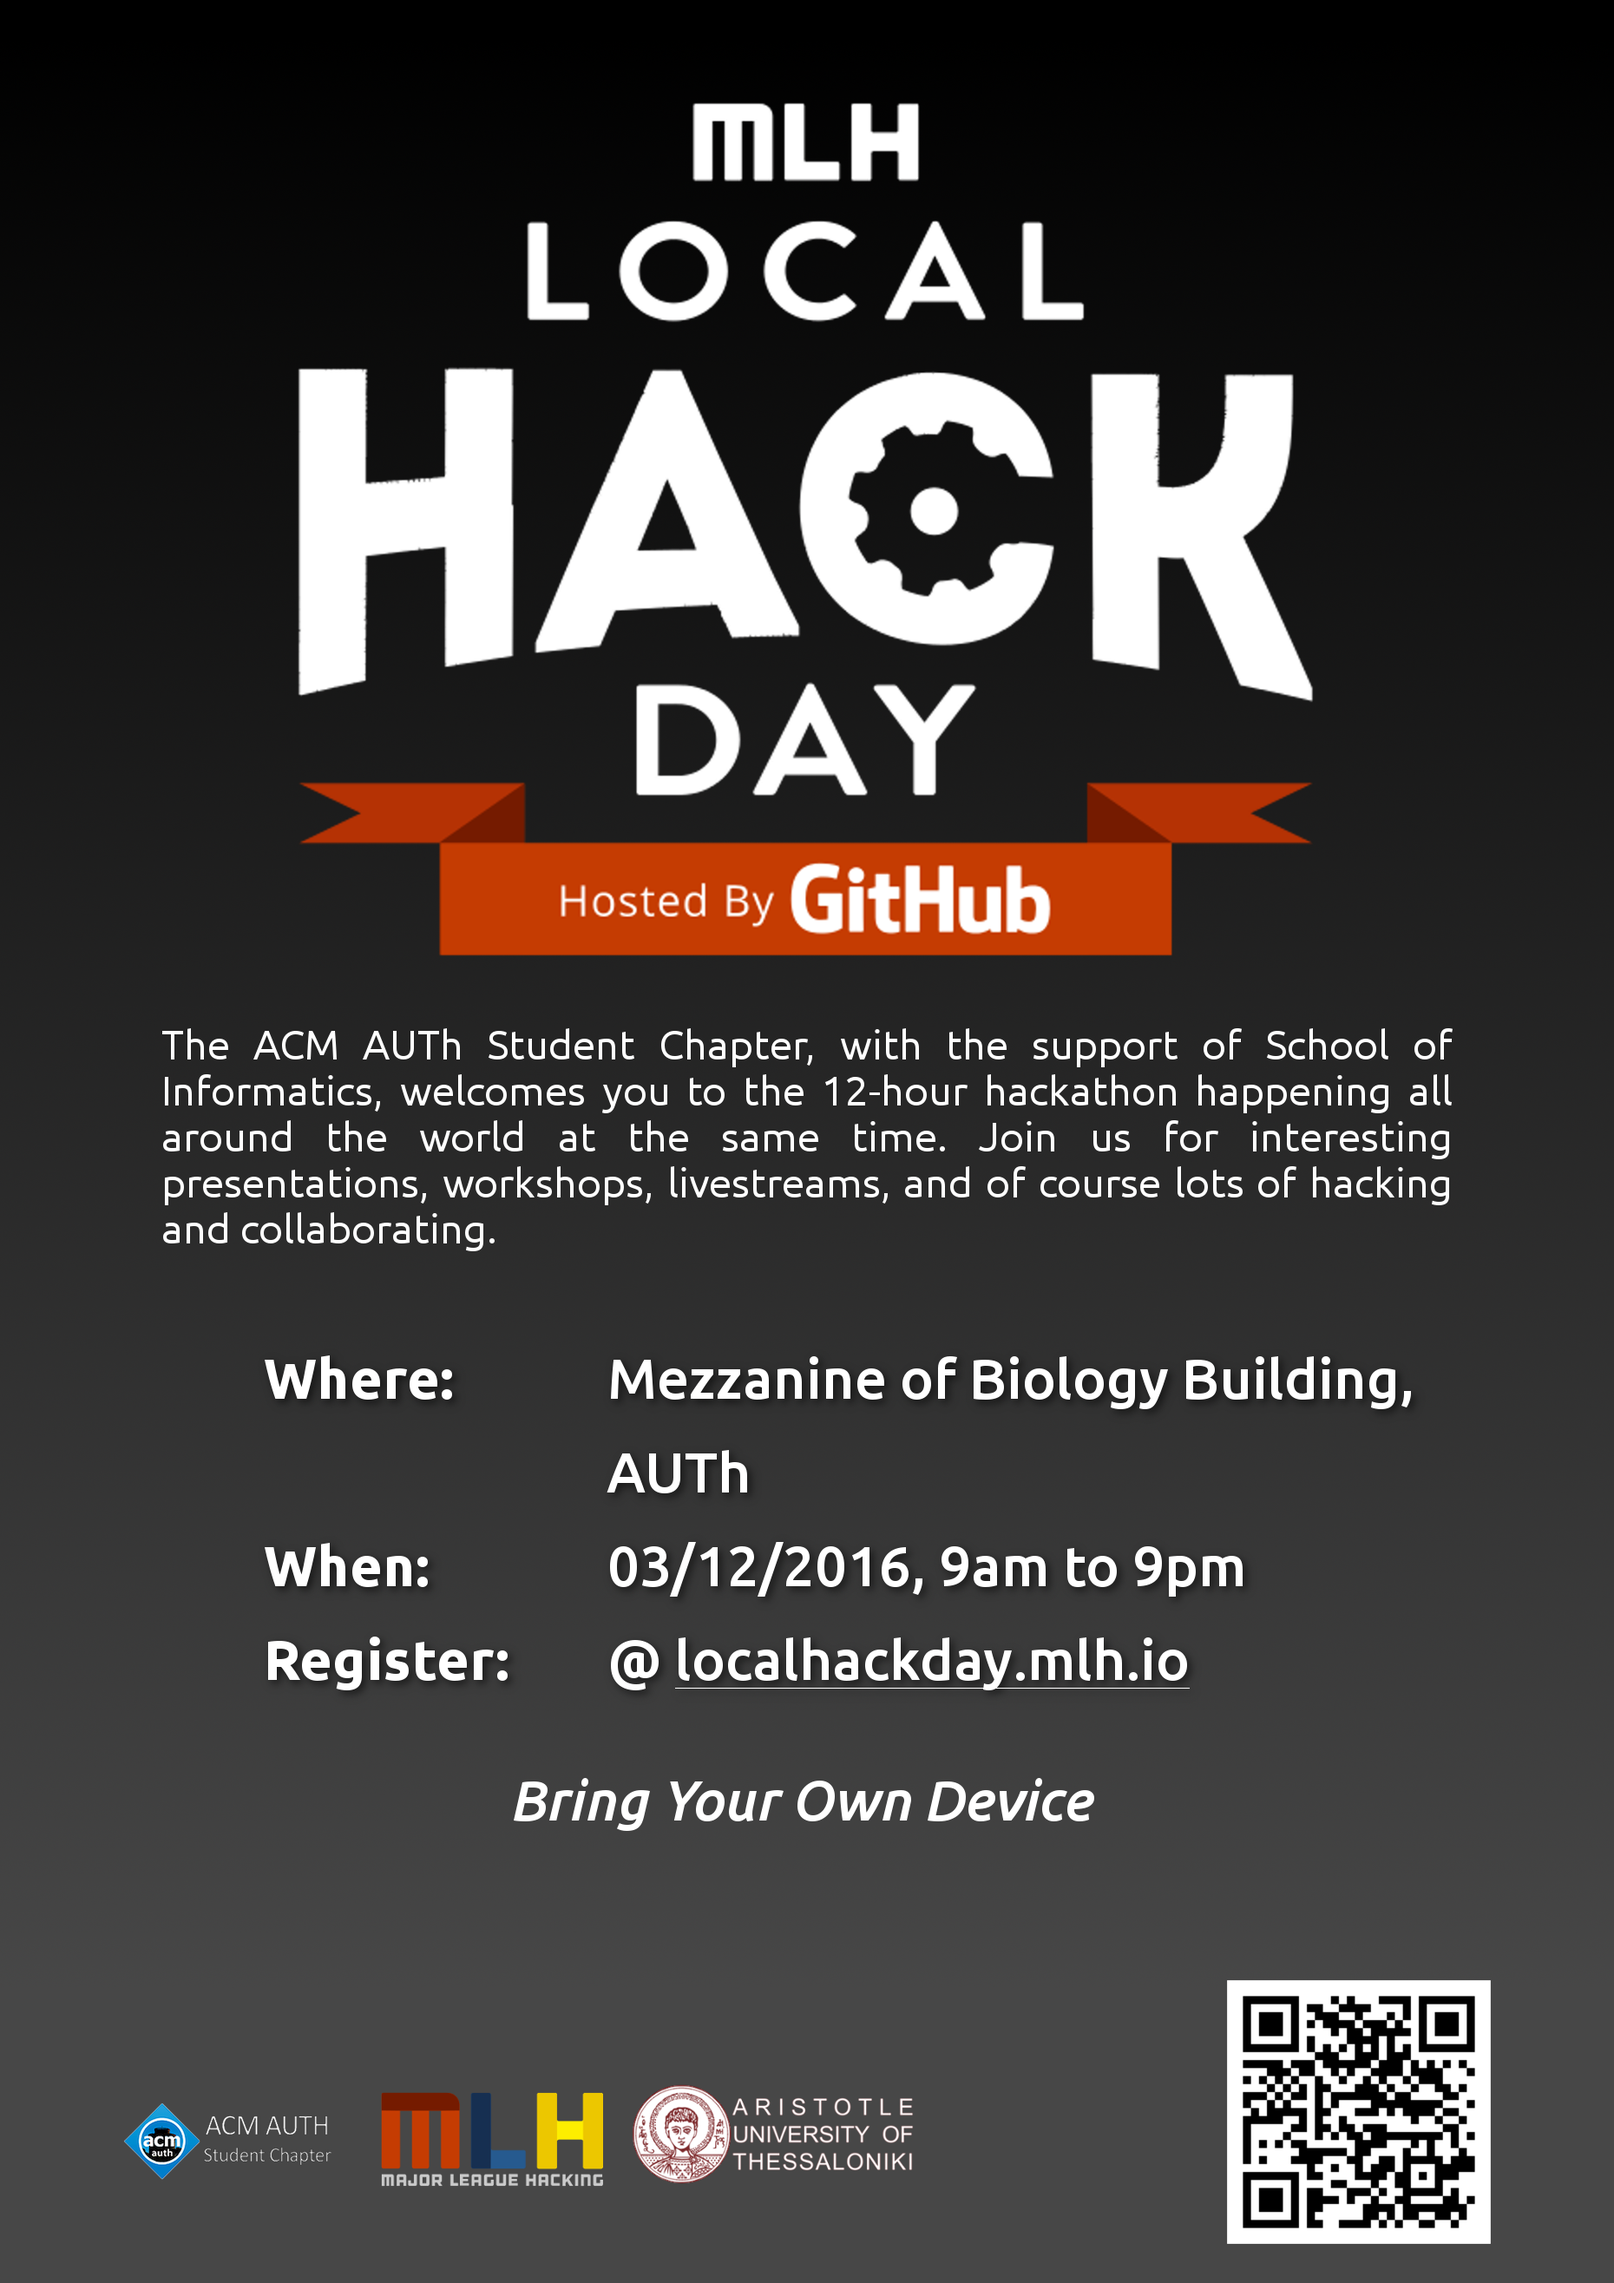
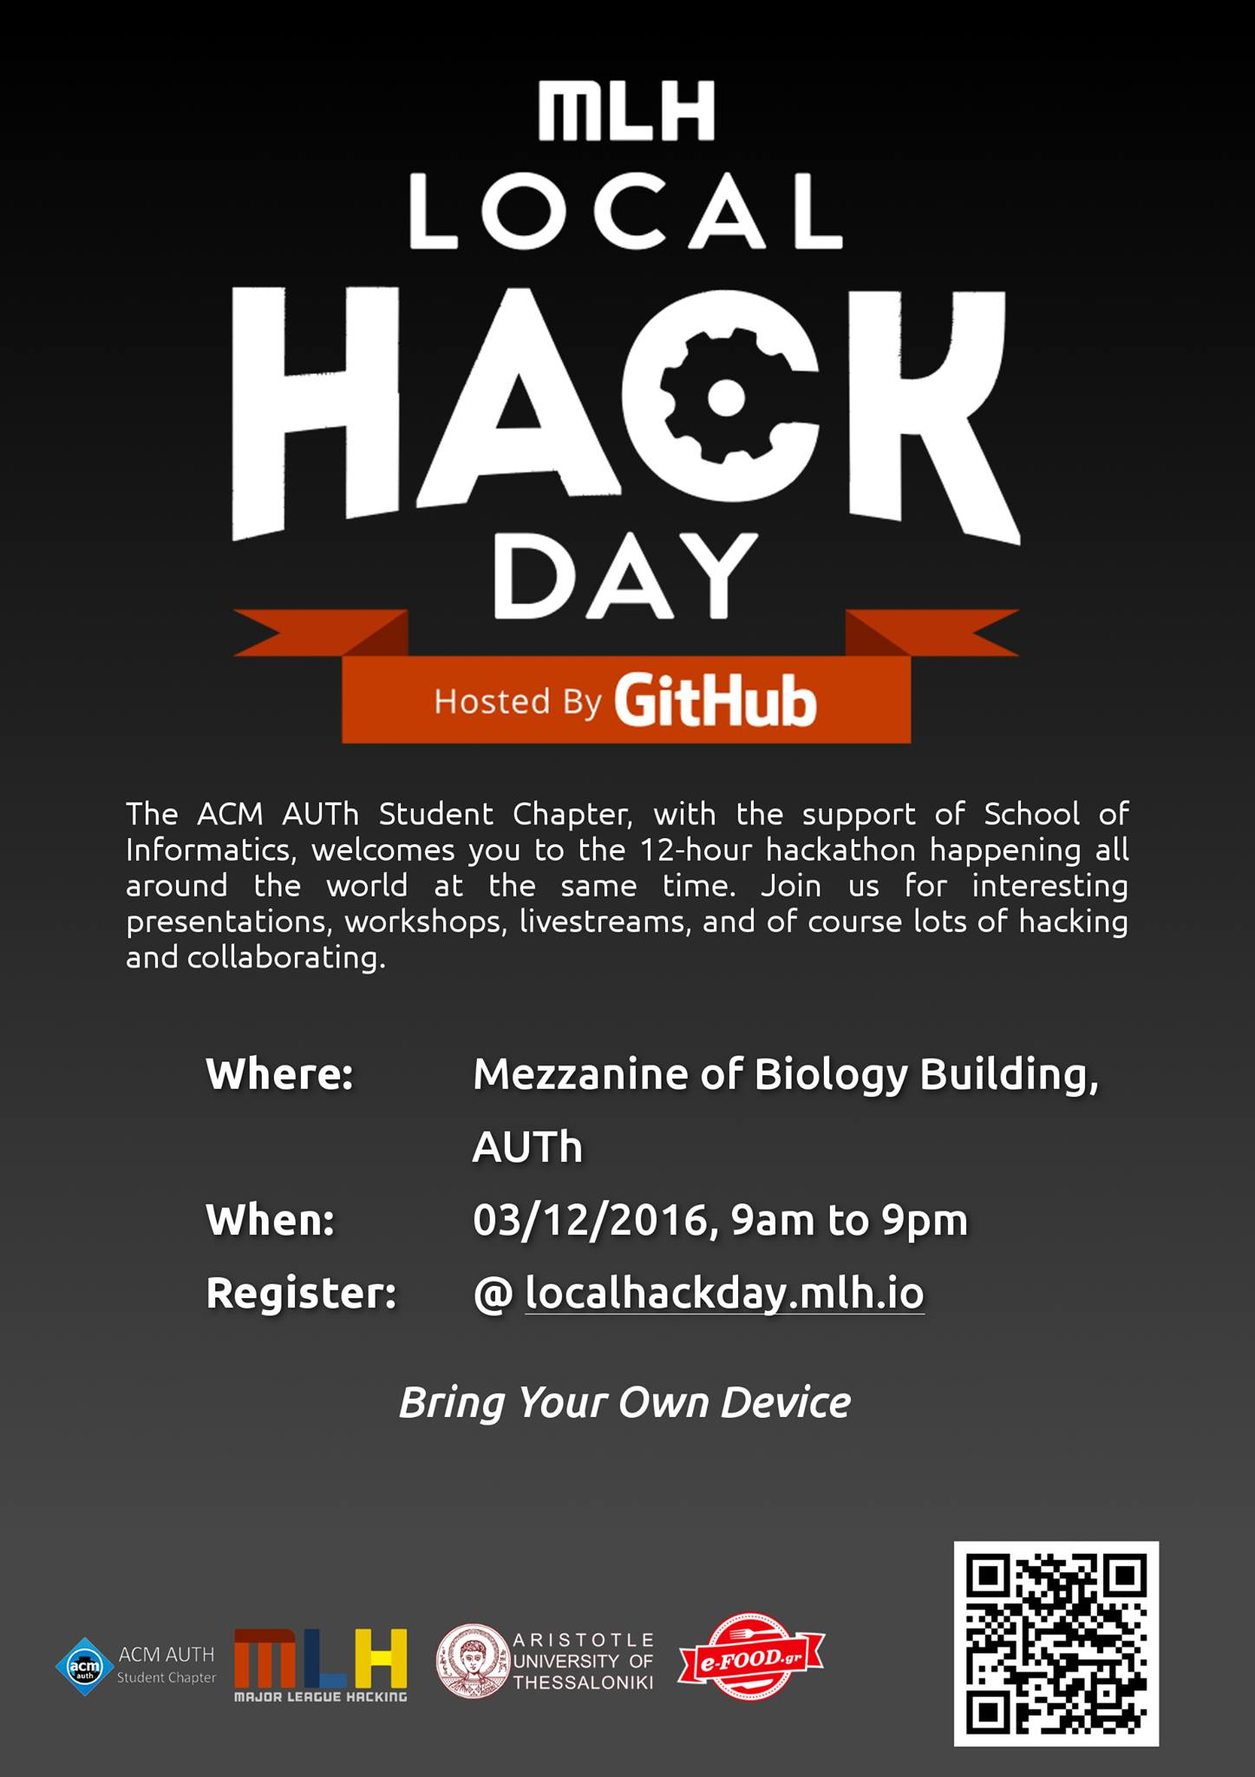
Updates on Local Hack Day event

Changed region(s): [[0.0311, 0.9062, 0.6531, 0.9688]]

diff --git a/_posts/2016-12-03-mlh-local-hack-day-2.md b/_posts/2016-12-03-mlh-local-hack-day-2.md
@@ -16,7 +16,7 @@ Find us on the 3rd of December on the Mezzanine of the Biology building in Arist
 
 **Don't** forget to bring a laptop and appetite to learn and cooperate!
 
-There will be plenty of coffee and pizza, an offer by e-FOOD.gr
+There will be plenty of coffee and pizza, an offer by [e-FOOD.gr](https://www.e-food.gr/)
 
 ## Schedule
 
